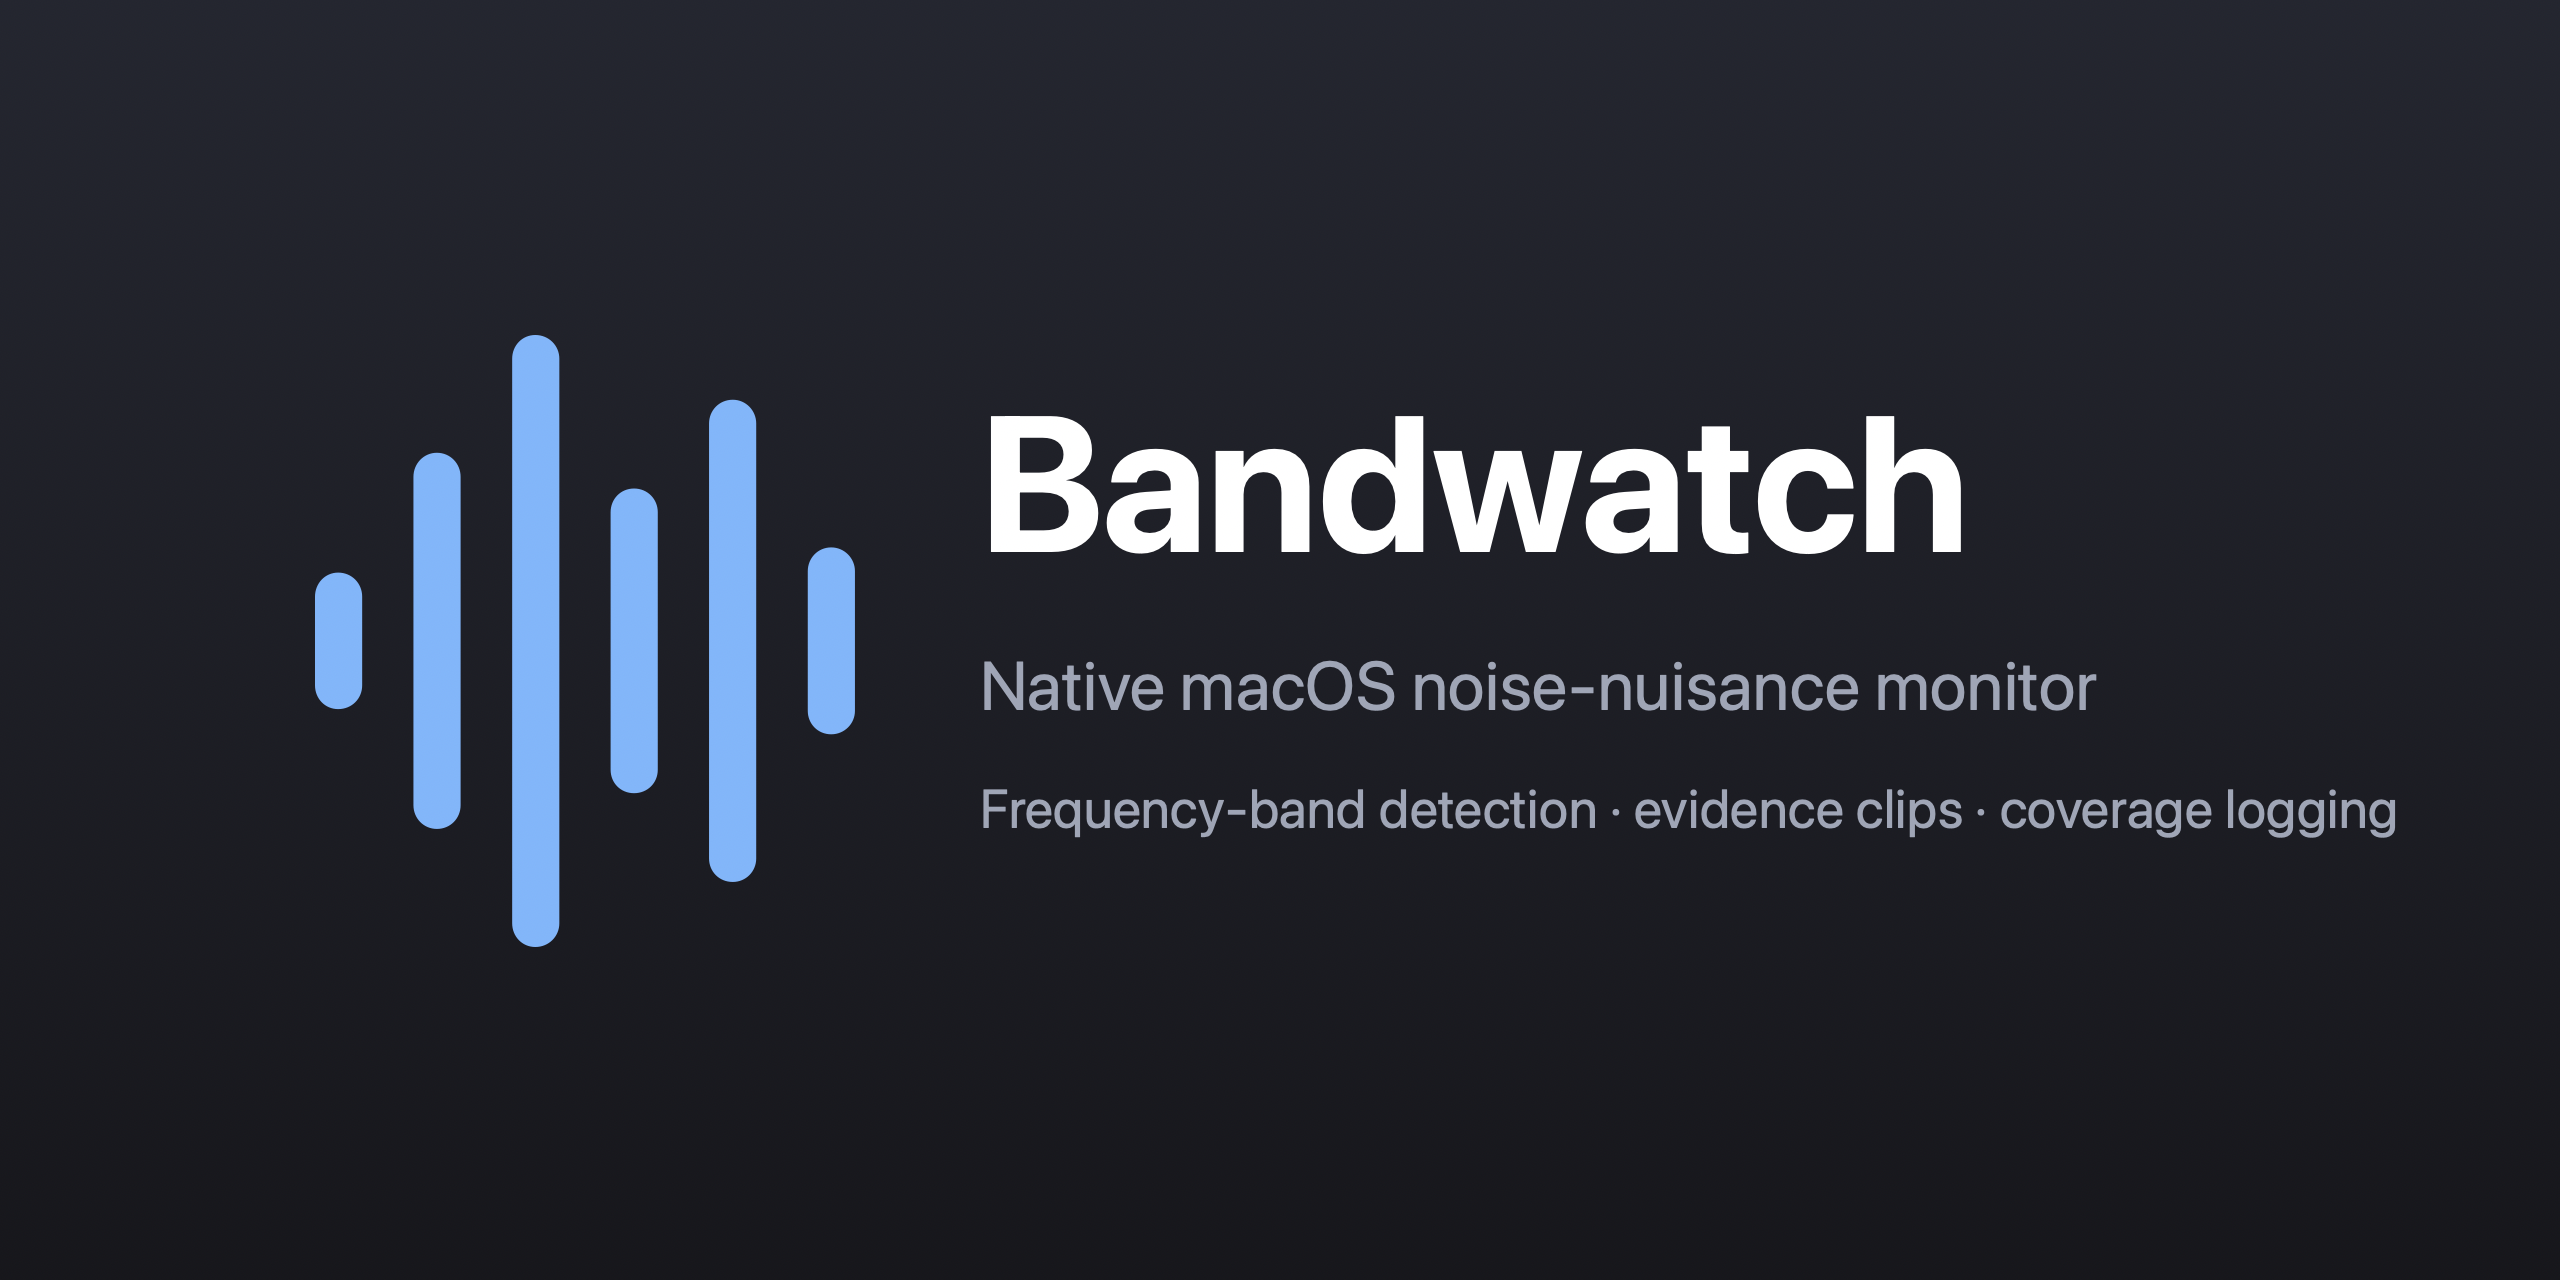
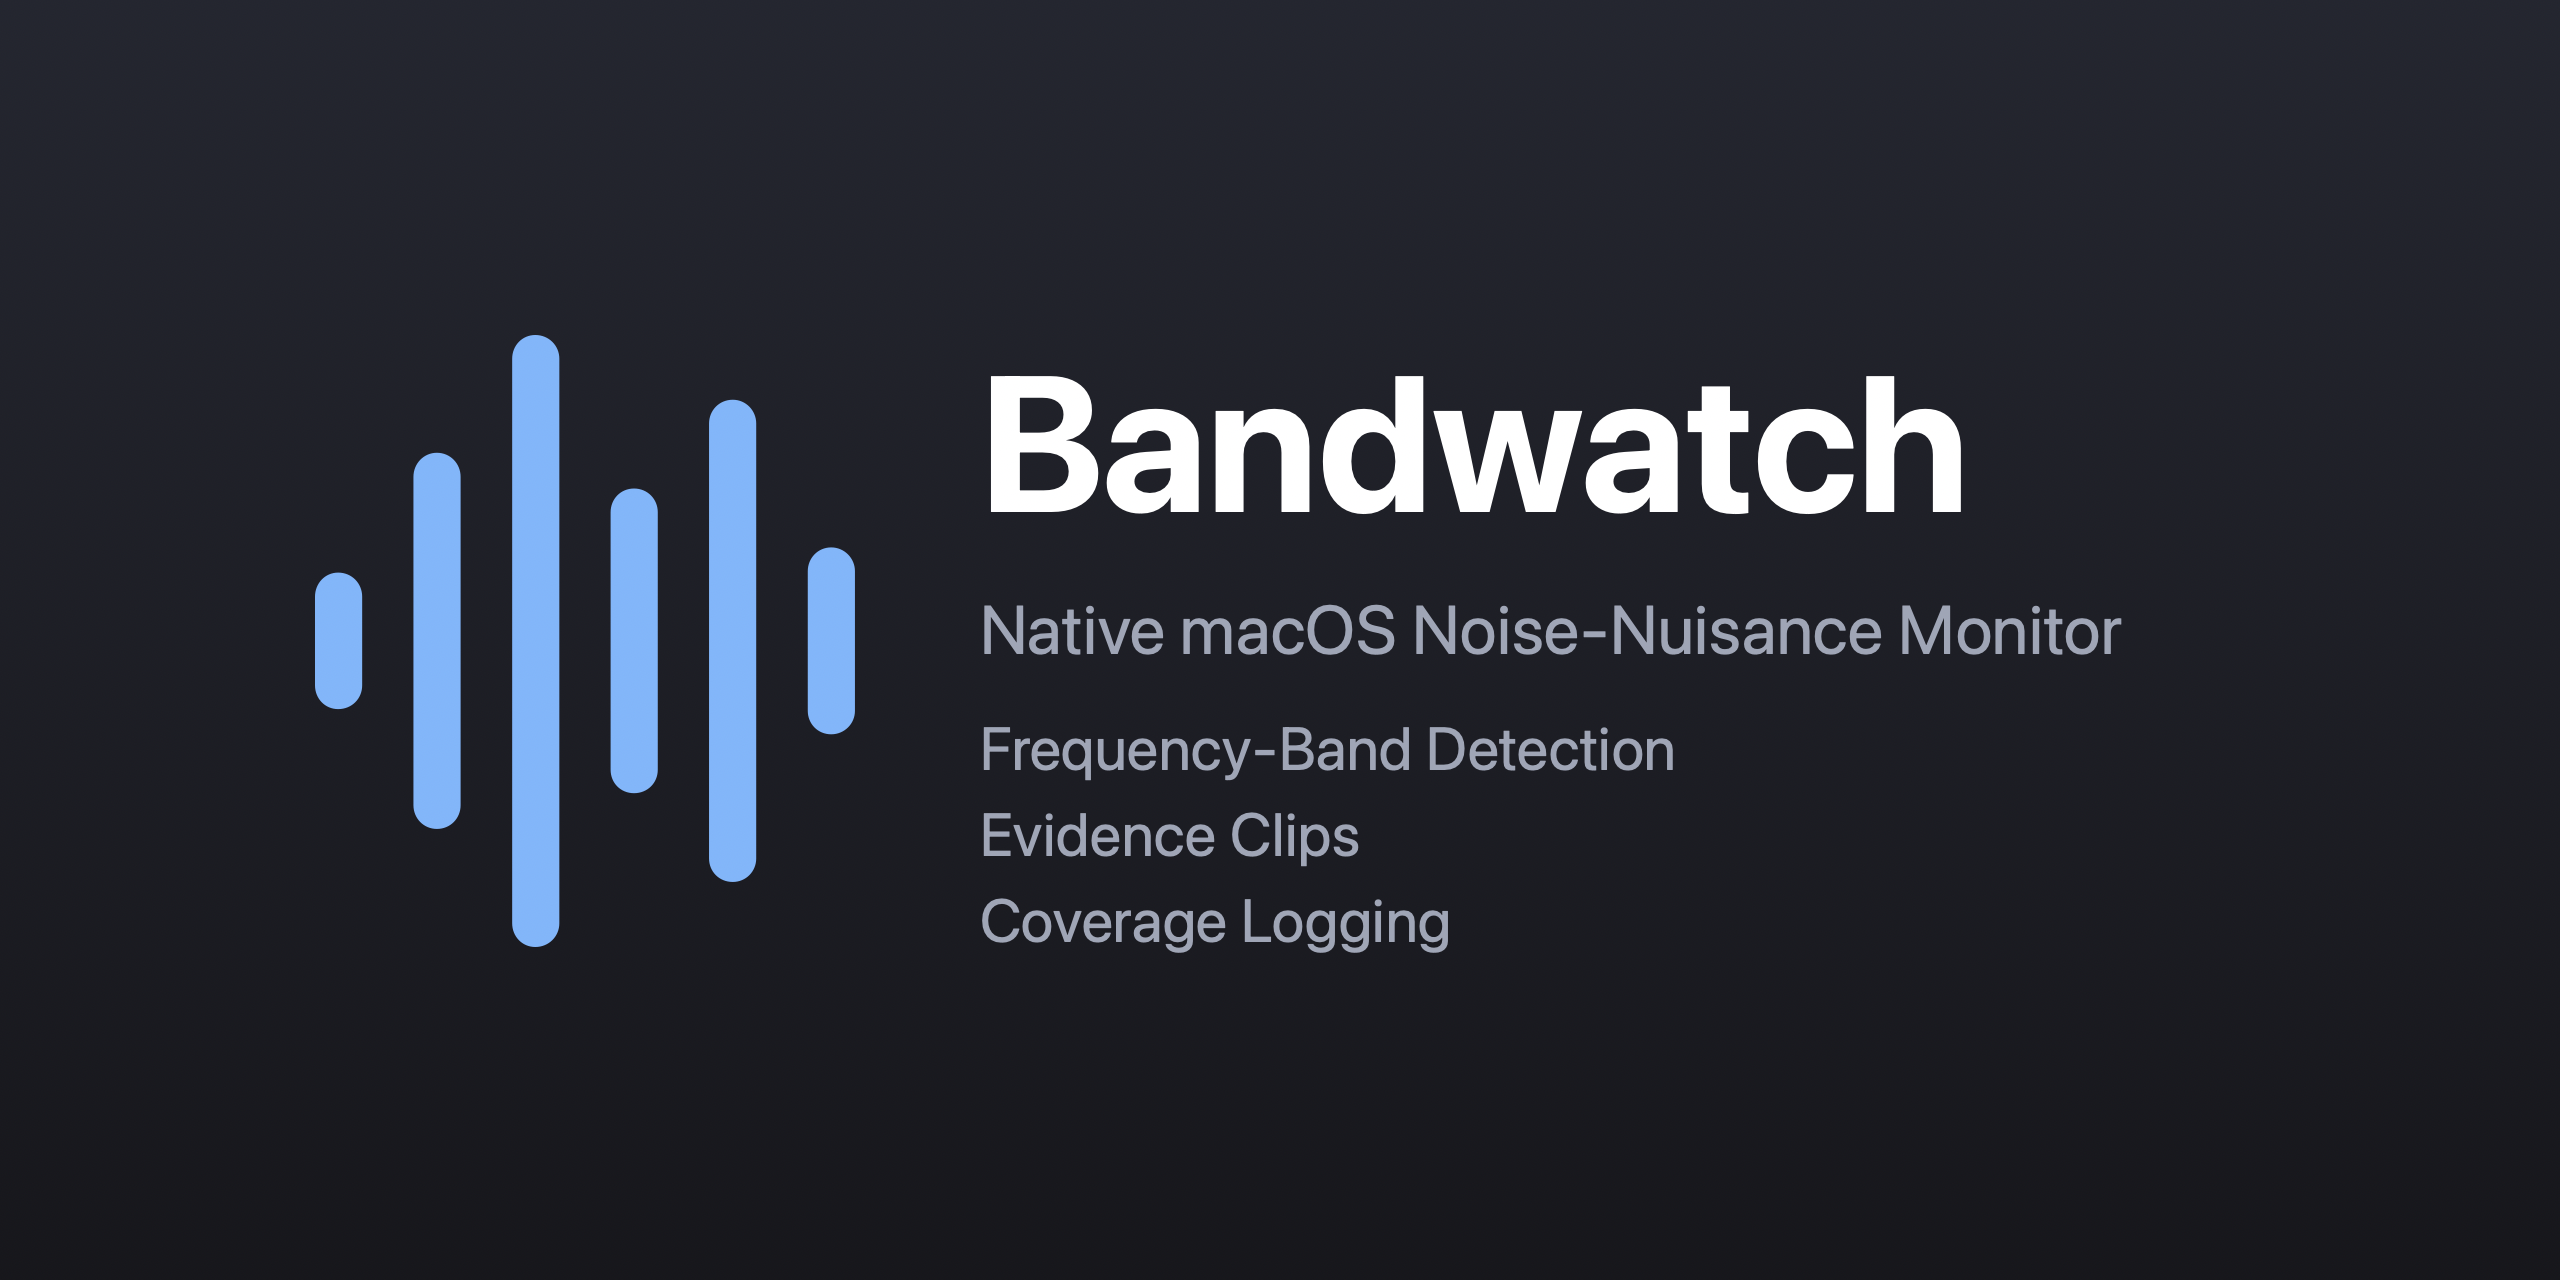
Social card: Title Case tagline + features, one feature per line
Each feature now gets its own line, tagline and features are Title Case,
and the wordmark/tagline/feature block is measured and vertically
centered against the waveform mark.

Changed region(s): [[0.375, 0.4688, 0.9375, 0.75], [0.375, 0.2812, 0.7812, 0.4375]]

diff --git a/scripts/make-social-card.swift b/scripts/make-social-card.swift
@@ -42,41 +42,51 @@ if let sym = NSImage(systemSymbolName: "waveform", accessibilityDescription: nil
                 operation: .sourceOver, fraction: 1.0)
 }
 
-// Wordmark + tagline on the right.
+// Wordmark, tagline, and feature list on the right — Title Case, one feature
+// per line, drawn as one block vertically centered against the waveform mark
+// (which is itself centered on H/2).
 let textX = 120 + markSize + 70.0
-let textRight = 70.0                 // right margin
-let textW = W - textX - textRight
+
 let title = "Bandwatch"
+let desc = "Native macOS Noise-Nuisance Monitor"
+let features = [
+    "Frequency-Band Detection",
+    "Evidence Clips",
+    "Coverage Logging",
+]
+
 let titleAttrs: [NSAttributedString.Key: Any] = [
     .font: NSFont.systemFont(ofSize: 96, weight: .bold),
     .foregroundColor: NSColor.white,
 ]
-let titleY = H/2 + 24
-(title as NSString).draw(at: NSPoint(x: textX, y: titleY), withAttributes: titleAttrs)
-
-// Line 1: the descriptive sentence. Line 2: the three features, on ONE line —
-// its font shrinks until the bulleted list fits the available width.
-let desc = "Native macOS noise-nuisance monitor"
-let features = "Frequency-band detection · evidence clips · coverage logging"
-
 let descAttrs: [NSAttributedString.Key: Any] = [
     .font: NSFont.systemFont(ofSize: 34, weight: .regular),
     .foregroundColor: subtle,
 ]
-let descY = titleY - 66
-(desc as NSString).draw(at: NSPoint(x: textX, y: descY), withAttributes: descAttrs)
+let featAttrs: [NSAttributedString.Key: Any] = [
+    .font: NSFont.systemFont(ofSize: 30, weight: .regular),
+    .foregroundColor: subtle,
+]
 
-var featSize = 34.0
-func featuresAttrs(_ pt: Double) -> [NSAttributedString.Key: Any] {
-    [.font: NSFont.systemFont(ofSize: pt, weight: .regular),
-     .foregroundColor: subtle]
+// (string, attrs, gap-after-this-line) rows, top to bottom.
+var rows: [(NSString, [NSAttributedString.Key: Any], Double)] = [
+    (title as NSString, titleAttrs, 18),
+    (desc as NSString, descAttrs, 22),
+]
+for (i, f) in features.enumerated() {
+    rows.append((f as NSString, featAttrs, i == features.count - 1 ? 0 : 8))
 }
-while featSize > 16,
-      (features as NSString).size(withAttributes: featuresAttrs(featSize)).width > textW {
-    featSize -= 1
+
+// Measure the block and place its top edge so the block is centered on H/2.
+let heights = rows.map { $0.0.size(withAttributes: $0.1).height }
+let totalHeight = heights.reduce(0, +) + rows.map { $0.2 }.reduce(0, +)
+var top = H/2 + totalHeight/2
+for (i, row) in rows.enumerated() {
+    // Non-flipped context: draw(at:) takes the lower-left, so subtract the line
+    // height to place this line's top edge at `top`.
+    row.0.draw(at: NSPoint(x: textX, y: top - heights[i]), withAttributes: row.1)
+    top -= (heights[i] + row.2)
 }
-let featY = descY - 58
-(features as NSString).draw(at: NSPoint(x: textX, y: featY), withAttributes: featuresAttrs(featSize))
 
 img.unlockFocus()
 
